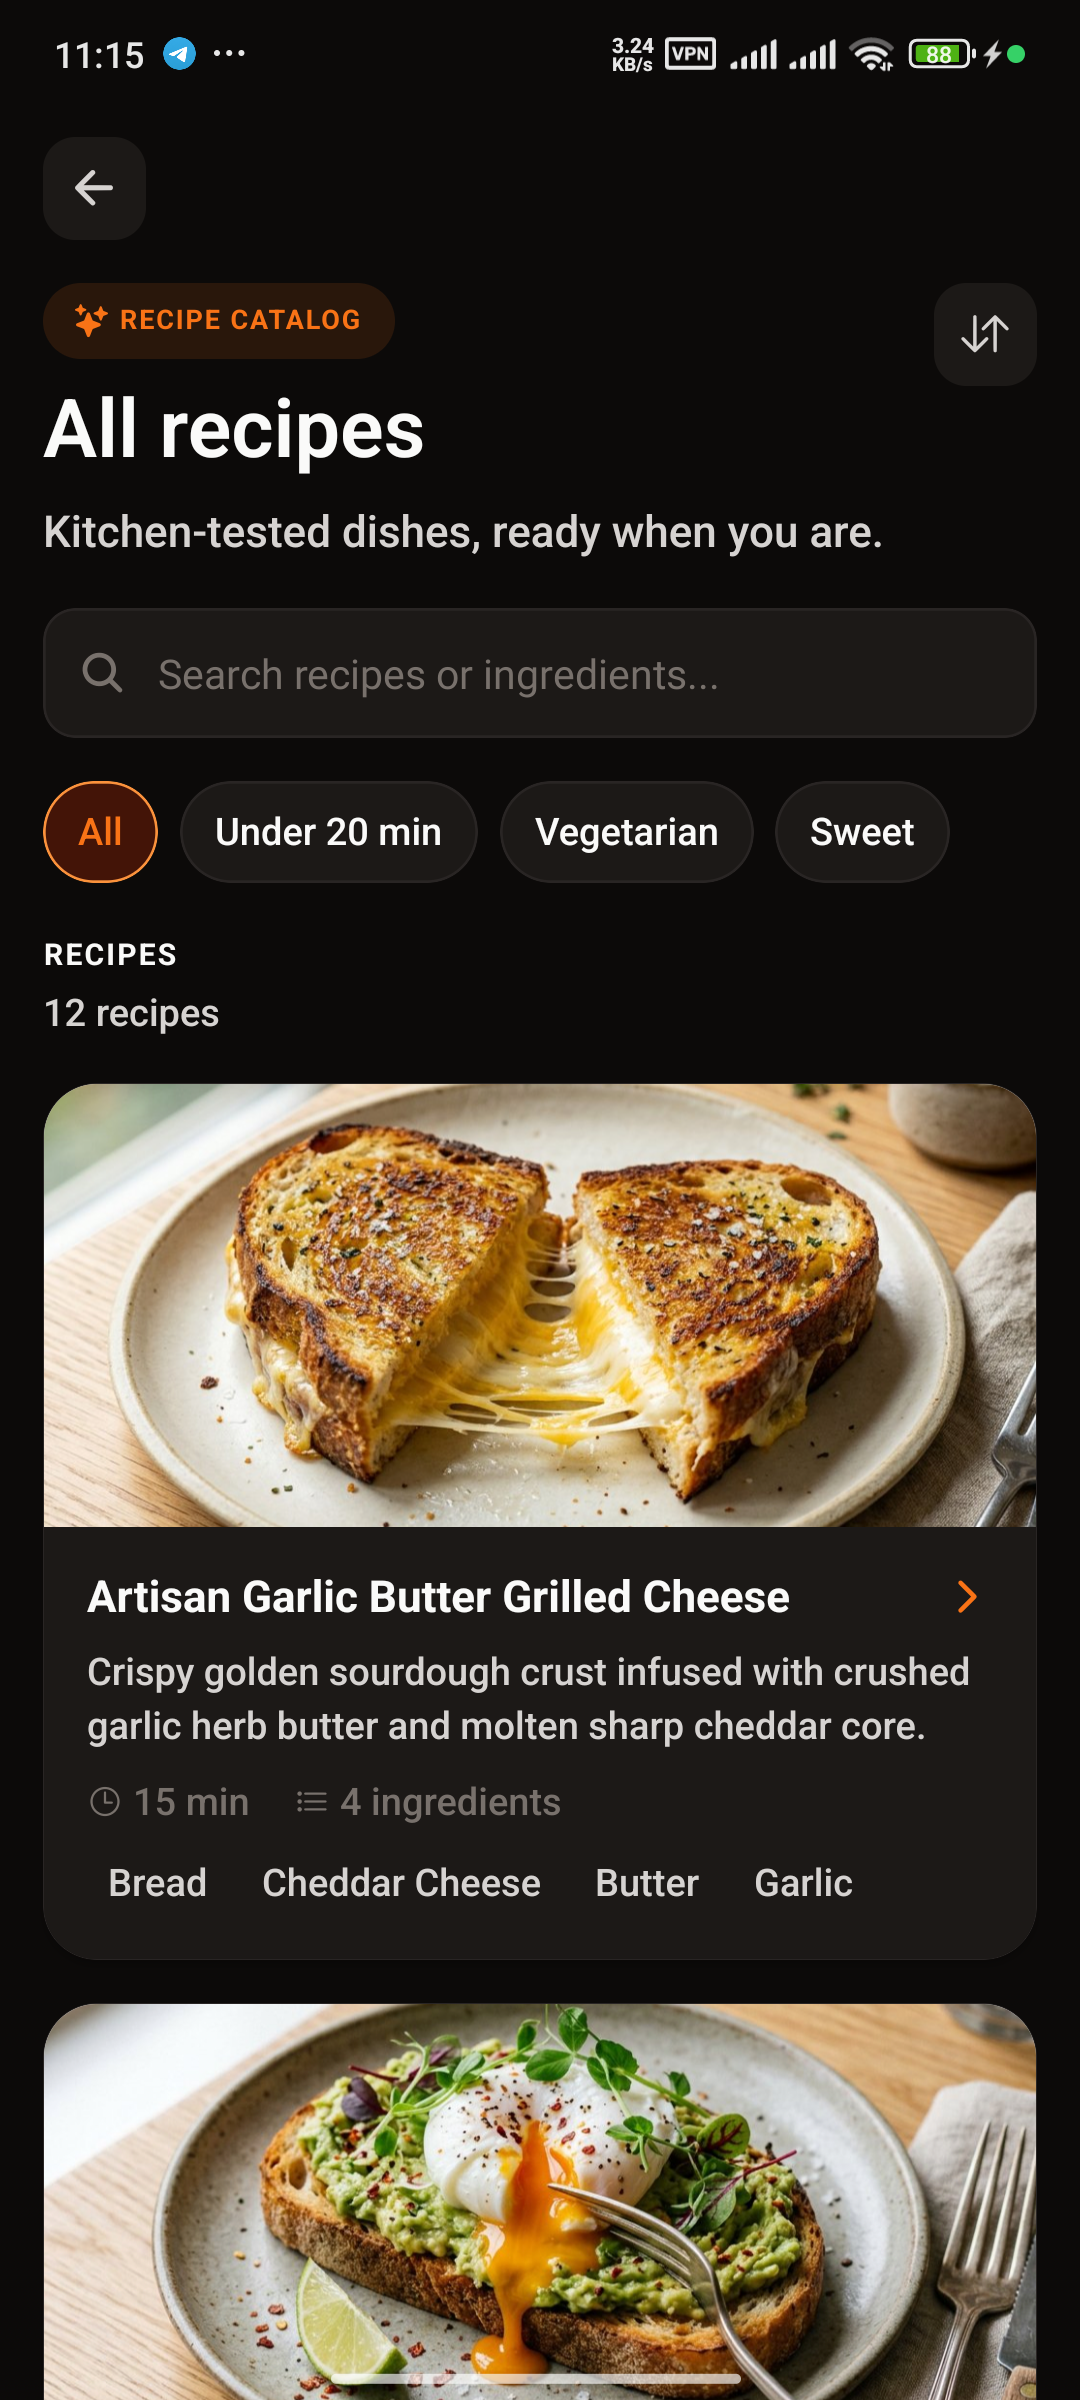
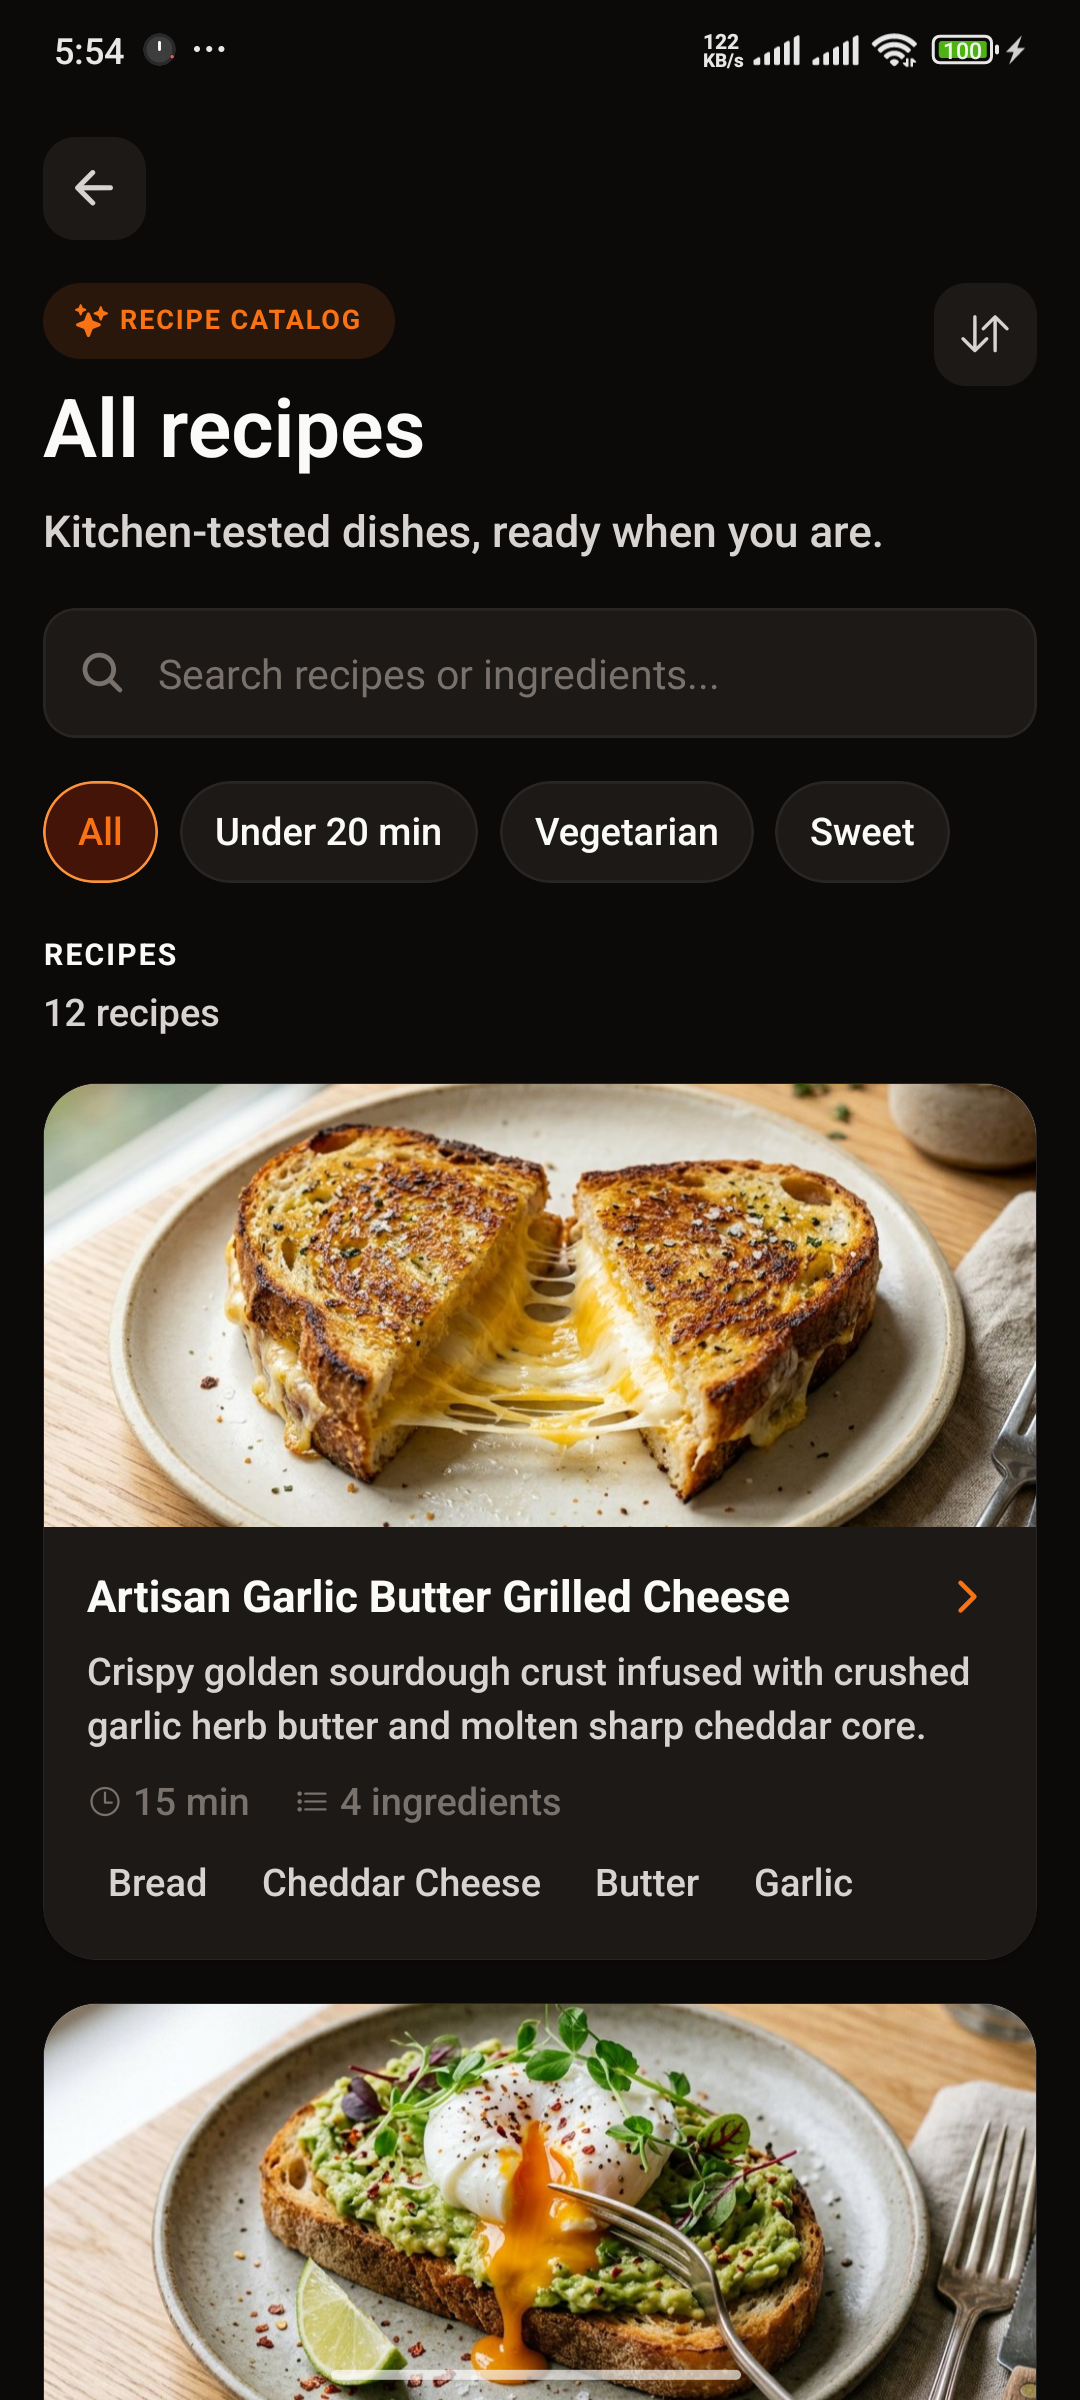
docs: refresh Android screenshots from the CI-built APK
Capture pantry, cook, catalog, AI Chef, generated recipe and Persian RTL on a
Xiaomi 22101320G running the debug-signed release APK from android-device.yml.

Changed region(s): [[0.55, 0.0, 0.9472, 0.0312], [0.3056, 0.9688, 0.6722, 1.0], [0.0611, 0.0, 0.1833, 0.0312]]

diff --git a/README.md b/README.md
@@ -225,8 +225,7 @@ degrade to a translated "not connected" state, and `ai-models` falls back to the
 catalog. Staging API smoke and the Android bundle pass; mobile helper tests cover the dish
 photography helper. A debug-signed release APK is now built by
 `.github/workflows/android-device.yml` and installed on a physical Android 14 device; the
-on-device AI/scanner walkthrough is verified, while refreshed device screenshots are still
-pending.
+on-device AI/scanner walkthrough and the refreshed device screenshots are verified.
 M6 - mobile recipe catalog: a searchable `/recipes` screen with quick, vegetarian and sweet
 filters, plus a `/recipe/[id]` detail screen with serving scaling, pantry-aware ingredient
 checklists, inline substitutions, missing-only grocery export, step completion, an in-app

diff --git a/docs/PROGRESS.md b/docs/PROGRESS.md
@@ -635,3 +635,6 @@ Expo SDK 58 supplies these defaults in `ExpoRootProjectPlugin`.
 - Verified: web and mobile typecheck, lint and tests, web build, a Playwright run of the
   unmatched-detection flow against staging (Dragon Fruit added, then cleaned up), RPC
   duplicate/anon checks, and a local release APK installed on a Xiaomi 22101320G.
+- Refreshed the Android gallery from the CI-built release APK on a Xiaomi 22101320G
+  (Android 14): pantry, cook matches, catalog, AI Chef creations, a generated recipe with
+  a Storage dish photo, and the Persian RTL pantry.
